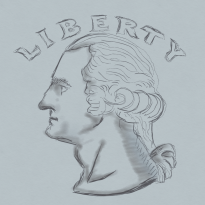
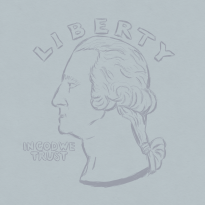
update quarter drawing changed border solid to dashed for quarter and dime

diff --git a/styles.css b/styles.css
@@ -61,7 +61,7 @@ form{
 
 #Dime {
     background: url(fdr-105x105.png);
-    border: solid 2px darkgrey;
+    border: dashed 1px rgb(190, 188, 188);
     border-radius: 50%;
     height: 100px;
     width: 100px;
@@ -69,8 +69,8 @@ form{
 }
 
 #Quarter {
-    background: url(washington-200x200.png);
-    border: solid 2px rgb(102, 102, 102);
+    background: url(washington-205x205.png);
+    border: dashed 2px rgb(169, 171, 172);
     border-radius: 50%;
     height: 200px;
     width: 200px;
@@ -95,7 +95,7 @@ form{
     margin-top: 10px;
     display: block;
     text-align: center;
-    padding-top: 30px;
+    padding-top: 35px;
 }
 
 @import "compass/css3";
